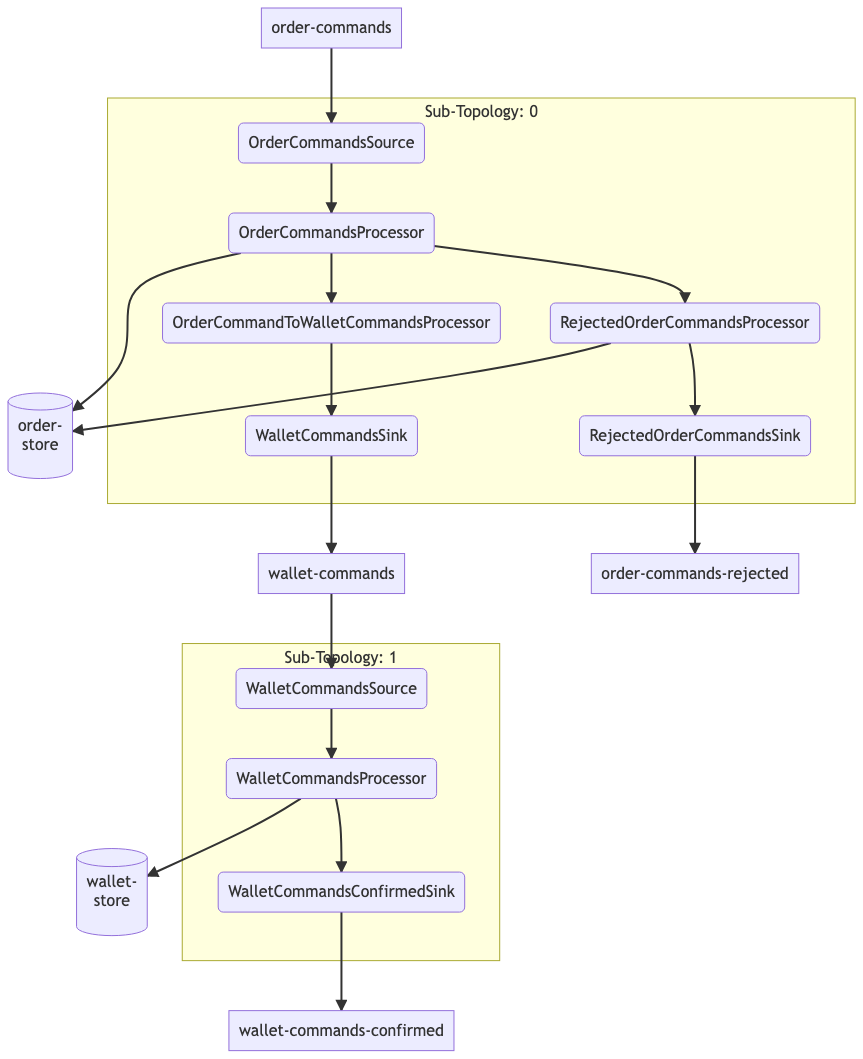
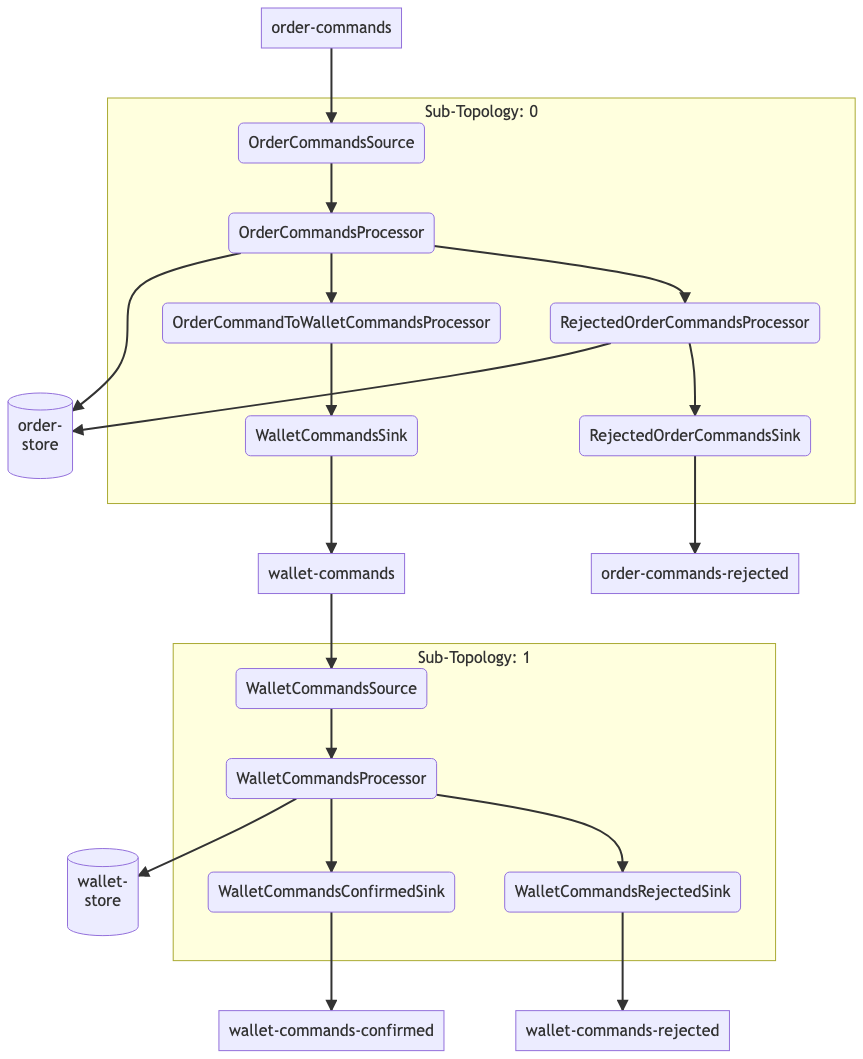
Forward rejected WalletCommands to wallet-commands-rejected topic

diff --git a/wallet-streams/src/test/java/org/example/ApplicationTests.kt b/wallet-streams/src/test/java/org/example/ApplicationTests.kt
@@ -94,4 +94,46 @@ class ApplicationTests {
         assert(outputTopicRejected.isEmpty)
 
     }
+
+    @Test
+    fun `wallet command rejected comes to wallet-commands-rejected topic only and has REJECTED status`() {
+        val input = testDriver.createInputTopic("wallet-commands", Serdes.String().serializer(), JsonSerde(WalletCommand::class.java).serializer())
+        val inputStream = this::class.java.classLoader.getResourceAsStream("wallet-command-block.json")?.bufferedReader()?.readText()
+        val walletCommand = objectMapper.readValue(inputStream, WalletCommand::class.java)
+        val record = TestRecord(walletCommand.walletId, walletCommand)
+
+        input.pipeInput(record)
+
+        val outputTopicRejected = testDriver.createOutputTopic("wallet-commands-rejected", Serdes.String().deserializer(), JsonSerde(WalletCommand::class.java).deserializer())
+        assert(!outputTopicRejected.isEmpty)
+
+        val outputRecord = outputTopicRejected.readRecord()
+        assert(outputRecord.value.status == WalletCommandStatus.REJECTED)
+
+        val outputTopicConfirmed = testDriver.createOutputTopic("wallet-commands-confirmed", Serdes.String().deserializer(), JsonSerde(WalletCommand::class.java).deserializer())
+        assert(outputTopicConfirmed.isEmpty)
+
+
+    }
+
+    @Test
+    fun `wallet command confirmed comes to wallet-commands-confirmed topic only and has CONFIRMED status`() {
+        val input = testDriver.createInputTopic("wallet-commands", Serdes.String().serializer(), JsonSerde(WalletCommand::class.java).serializer())
+        val inputStream = this::class.java.classLoader.getResourceAsStream("wallet-command-credit.json")?.bufferedReader()?.readText()
+        val walletCommand = objectMapper.readValue(inputStream, WalletCommand::class.java)
+        val record = TestRecord(walletCommand.walletId, walletCommand)
+
+        input.pipeInput(record)
+
+        val outputTopicRejected = testDriver.createOutputTopic("wallet-commands-rejected", Serdes.String().deserializer(), JsonSerde(WalletCommand::class.java).deserializer())
+        assert(outputTopicRejected.isEmpty)
+
+
+        val outputTopicConfirmed = testDriver.createOutputTopic("wallet-commands-confirmed", Serdes.String().deserializer(), JsonSerde(WalletCommand::class.java).deserializer())
+        assert(!outputTopicConfirmed.isEmpty)
+
+        val outputRecord = outputTopicConfirmed.readRecord()
+        assert(outputRecord.value.status == WalletCommandStatus.CONFIRMED)
+
+    }
 }

diff --git a/wallet-streams/src/main/java/org/example/wallet/WalletCommandProcessor.kt b/wallet-streams/src/main/java/org/example/wallet/WalletCommandProcessor.kt
@@ -46,7 +46,7 @@ class WalletCommandProcessor : Processor<String, WalletCommand, String, WalletCo
                val record = Record(wallet.walletId,
                    command.copy(status = WalletCommandStatus.REJECTED, message = "Not enough ${asset.assetId} for ${command.causeId}, ${command.amount} required, ${asset.available()} available"),
                    context.currentSystemTimeMs())
-               context.forward(record)
+               context.forward(record, "WalletCommandsRejectedSink")
                return
            }
         }
@@ -79,7 +79,7 @@ class WalletCommandProcessor : Processor<String, WalletCommand, String, WalletCo
             command.copy(status = WalletCommandStatus.CONFIRMED),
             context.currentSystemTimeMs())
 
-        context.forward(record)
+        context.forward(record, "WalletCommandsConfirmedSink")
 
     }
 

diff --git a/wallet-streams/src/main/java/org/example/match/Application.kt b/wallet-streams/src/main/java/org/example/match/Application.kt
@@ -118,5 +118,13 @@ fun topology(): Topology {
         JsonSerde(WalletCommand::class.java).serializer(),
         "WalletCommandsProcessor"
     )
+
+    topology.addSink("WalletCommandsRejectedSink",
+        "wallet-commands-rejected",
+        Serdes.String().serializer(),
+        JsonSerde(WalletCommand::class.java).serializer(),
+        "WalletCommandsProcessor"
+    )
+
     return topology
 }
